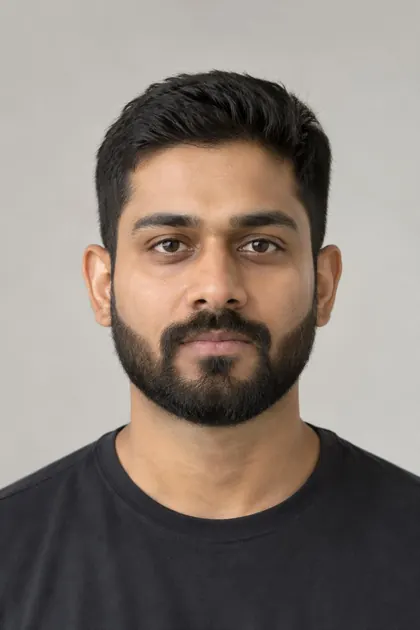
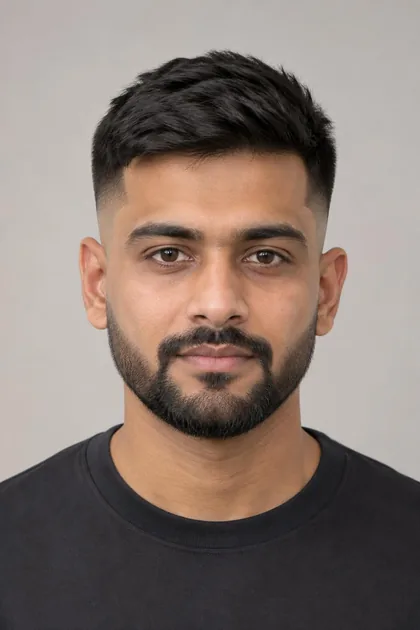
Beautiva page: three men's cards (haircuts, fresh beard, hair colour) in the styles grid
Claude-Session: https://claude.ai/code/session_0168XhMD239zNaw2uKBd8JwL

Changed region(s): [[0.0, 0.0603, 1.0, 0.8444]]

diff --git a/beautiva/index.html b/beautiva/index.html
@@ -80,7 +80,7 @@
     .step p { color: var(--text2); margin-top: 8px; font-size: 15px; }
 
     /* Categories */
-    .cats { display: grid; grid-template-columns: repeat(6, 1fr); gap: 14px; margin-top: 48px; }
+    .cats { display: grid; grid-template-columns: repeat(4, 1fr); gap: 14px; margin-top: 48px; }
     .cat { position: relative; border-radius: 18px; overflow: hidden; border: 1px solid var(--border); aspect-ratio: 3/4; background: var(--surface); }
     .cat img { width: 100%; height: 100%; object-fit: cover; }
     .cat span { position: absolute; left: 0; right: 0; bottom: 0; padding: 30px 12px 12px; background: linear-gradient(transparent, rgba(0,0,0,.82)); font-weight: 700; font-size: 15px; }
@@ -177,7 +177,6 @@
       .split.flip > :first-child { order: 0; }
       .hero-img .chip { left: 12px; bottom: 12px; }
       .steps, .trust { grid-template-columns: 1fr; }
-      .cats { grid-template-columns: repeat(3, 1fr); }
       .prices { grid-template-columns: 1fr 1fr; }
       .face .card { right: 12px; }
       .invite { padding: 30px 24px; }
@@ -290,8 +289,10 @@
         <div class="cat"><img src="img/makeup.webp" alt="Indian bridal makeup" loading="lazy"><span>Makeup</span></div>
         <div class="cat"><img src="img/colour.webp" alt="Caramel balayage hair colour" loading="lazy"><span>Hair colour</span></div>
         <div class="cat"><img src="img/nails.webp" alt="Mehendi-inspired nail art" loading="lazy"><span>Nail art</span></div>
-        <div class="cat"><img src="img/beard.webp" alt="Full groomed beard" loading="lazy"><span>Beards</span></div>
         <div class="cat"><img src="img/look.webp" alt="Bridal look with hair and makeup" loading="lazy"><span>Complete looks</span></div>
+        <div class="cat"><img src="img/men-hair.webp" alt="Man with a textured mid fade haircut" loading="lazy"><span>Men’s haircuts</span></div>
+        <div class="cat"><img src="img/beard.webp" alt="Man with a short faded beard" loading="lazy"><span>Beards</span></div>
+        <div class="cat"><img src="img/men-colour.webp" alt="Man with caramel highlights" loading="lazy"><span>Men’s hair colour</span></div>
       </div>
     </div>
   </section>
